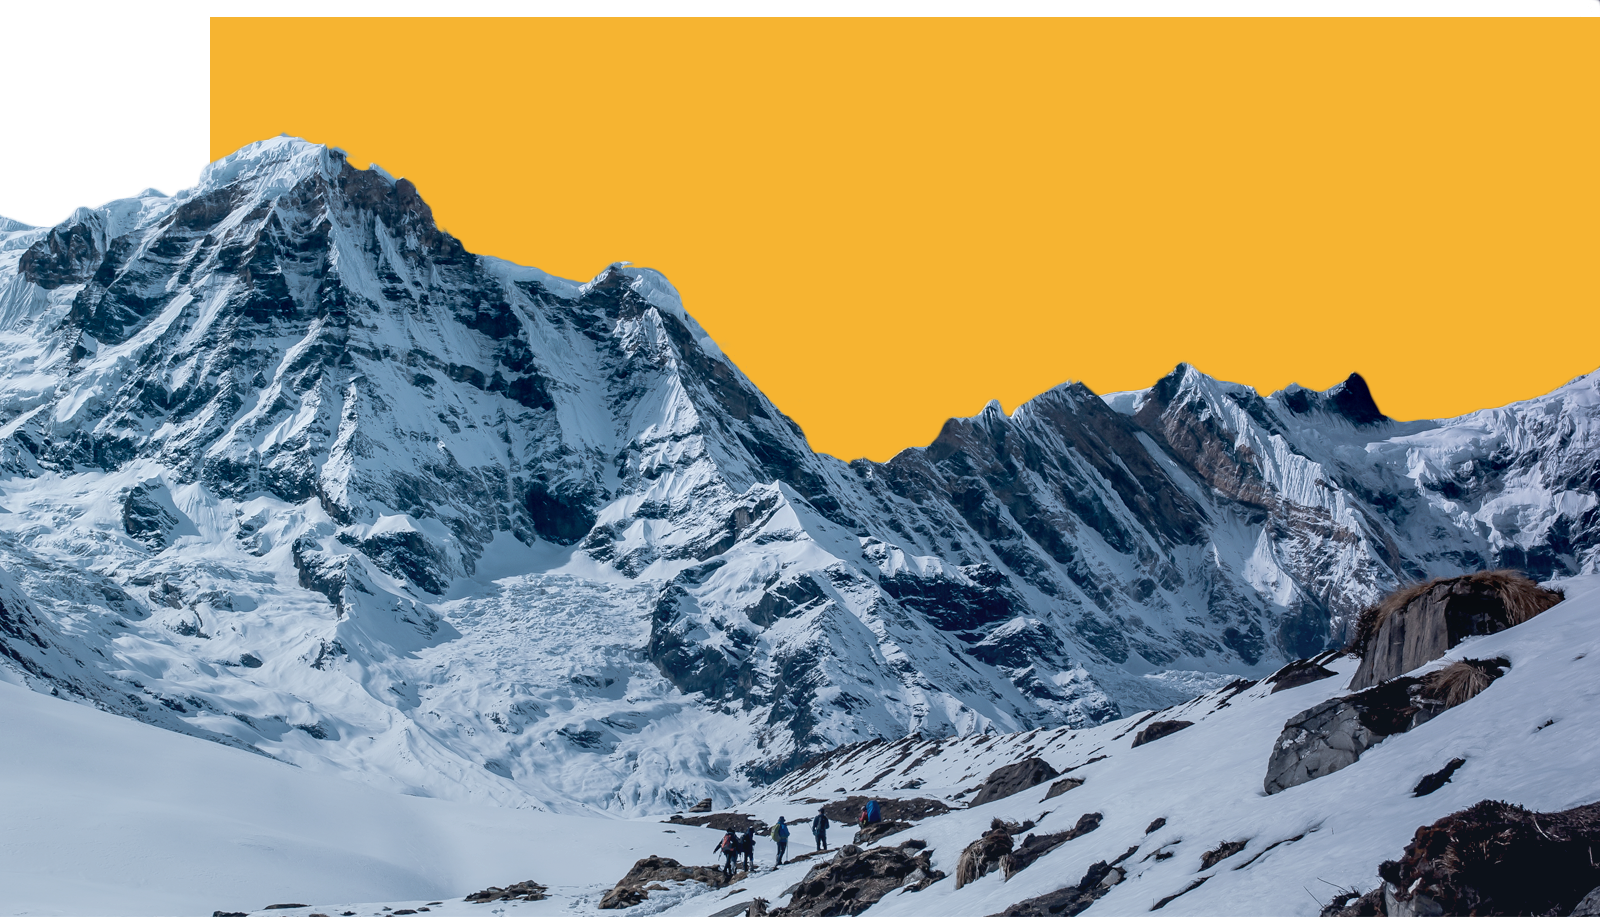
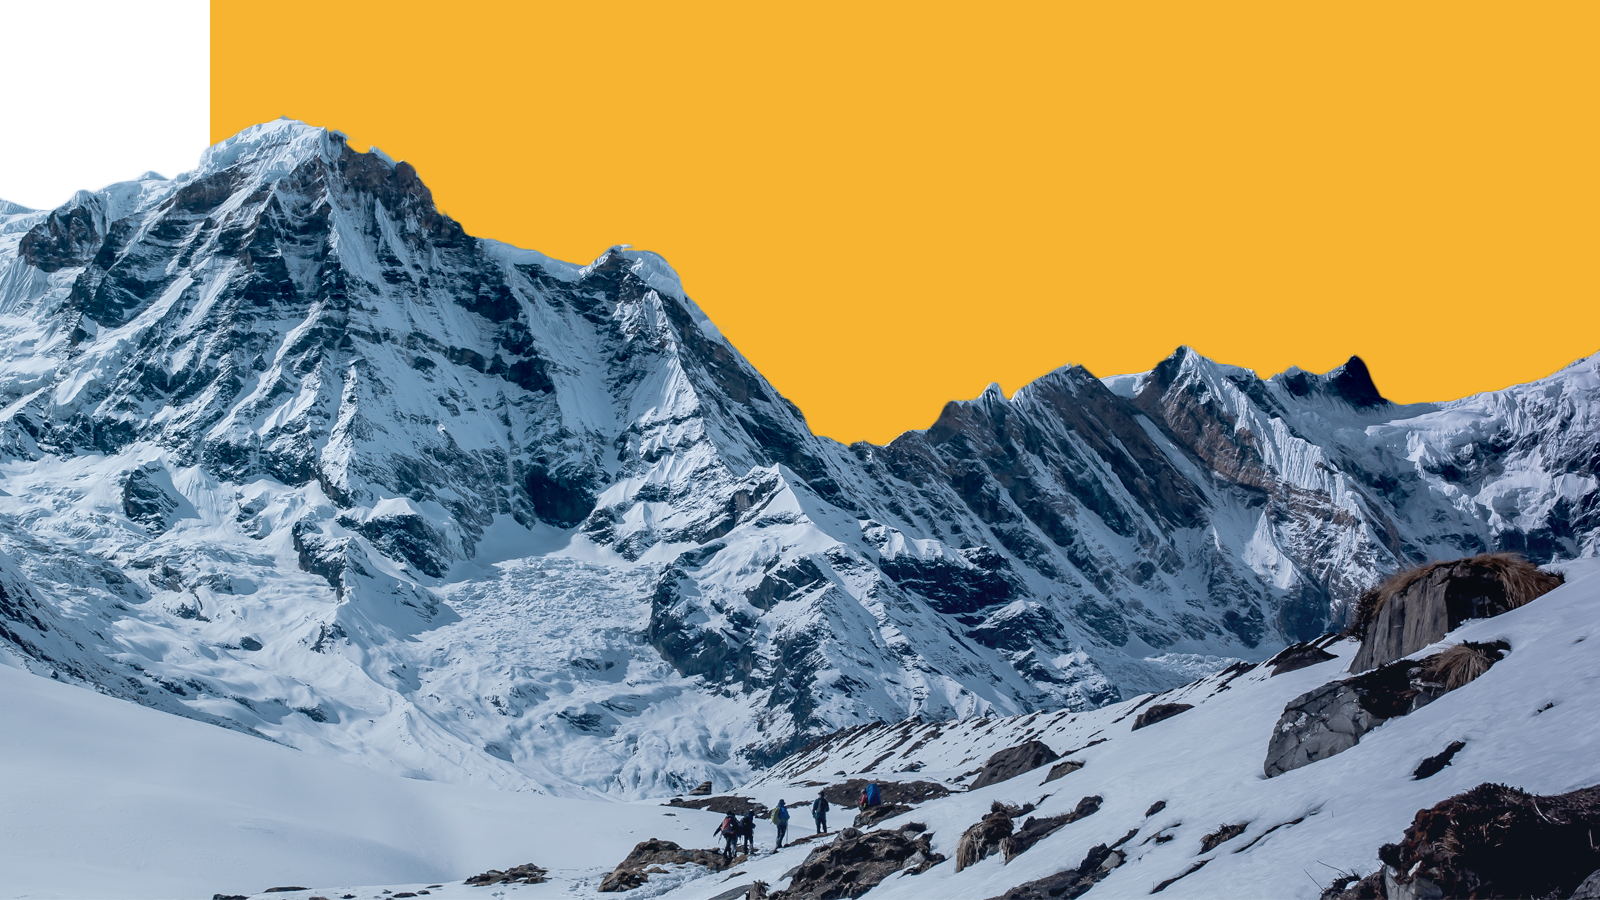
hate this mockup v2

diff --git a/css/style.css b/css/style.css
@@ -1,9 +1,9 @@
 body {
     background-color: #ECEDF1;
+    margin-left: 100px;
 }
 a {
     text-decoration: none;
-    color: white;
 }
 ul {
     list-style: none;
@@ -19,11 +19,13 @@ ul {
     justify-content: space-between;
     align-items: center;
     margin-left: 210px;
+    margin-bottom: 15px;
 }
 .row h2 {
     font-family: "Proxima Nova", sans-serif;
     font-size: 30px;
     color: #344D71;
+    margin-top: 43px;
 }
 .header__contacts {
     display: flex;
@@ -33,38 +35,47 @@ ul {
     font-family: "Proxima Nova Semibold",sans-serif;
     font-size: 25px;
     background-color: white;
-    height: 60px;
+    height: 50px;
 }
-.header__contacts>span {
+.header__contacts>div {
     background-color: #344D71;
-    height: 60px;
-    text-align: center;
+    text-align: left;
+    width: 25%;
     color:white;
+    padding: 11px 0;
+    padding-left: 30px;
 }
 .header__contacts>p {
     color: #A3B1B8;
+    font-family: "Proxima Nova",sans-serif;
+    font-size: 14px;
+    padding-right: 50px;
 }
 .header__contacts>i {
     color: white;
-    padding: 14px;
-    background-color: #DE9E20   ;
+    padding: 13px 15px;
+    background-color: #DE9E20;
+    text-align: center;
+}
+.header__links {
+    color: black;
 }
 .navigation {
     background-color: #F6B431;
     height: 70px;
-    margin-left: 210px;
     padding: 0;
+    margin: 0 0 0 210px;
 }
 .navigation__element {
     display: inline-block;
     font-family: "Proxima Nova Semibold", sans-serif;
     font-size: 16pt;
-
 }
 .main {
     margin-top: -10px;
 }
 .block_top {
+    margin-top: -50px;
     display: flex;
     background-color: gray;
     background-image: url("../img/Masthead.png");
@@ -72,48 +83,71 @@ ul {
     max-width: 1600px;
 }
 .enrol {
-
+    background-color: #83969F;
+    width: 780px;
+    font-size: 20px;
 }
 .contact_us {
+    margin-left: 990px;
+    margin-top: 585px;
+    position: absolute;
     display: list-item;
+    background-color: #344D71;
+    height: 355px;
+    width: 340px;
+    padding: 30px;
+}
+.contact_us p {
+    font-family: "Proxima Nova Semibold",sans-serif;
+    font-size: 14px;
 }
 
 @font-face {
     font-family: FontAwesome;
     src: local("FontAwesome"),
-    url(../font/FontAwesome.otf);
+    url(../fonts/FontAwesome.otf);
 }
 @font-face {
     font-family: Proxima Nova Bold;
     src: local("Proxima Nova Bold"),
-    url(../font/ProximaNovaBold.otf);
+    url(../fonts/ProximaNovaBold.otf);
 }
 @font-face {
     font-family: Proxima Nova Regular;
     src: local("Proxima Nova Regular"),
-    url(../font/ProximaNovaRegular.otf);
+    url(../fonts/ProximaNovaRegular.otf);
 }
 @font-face {
     font-family: Proxima Nova Regular Italic;
     src: local("Proxima Nova Regular Italic"),
-    url(../font/ProximaNovaRegularItalic.otf);
+    url(../fonts/ProximaNovaRegularItalic.otf);
 }
 @font-face {
     font-family: Proxima Nova Semibold;
     src: local("Proxima Nova Semibold"),
-    url(../font/ProximaNovaSemibold.otf);
+    url(../fonts/ProximaNovaSemibold.otf);
 }
 @font-face {
     font-family: Raleway-Light;
     src: local("Raleway-Light.ttf"),
-    url(../font/Raleway-Light.ttf);
+    url(../fonts/Raleway-Light.ttf);
 }
 @font-face {
     font-family: Raleway-Medium;
     src: local("Raleway-Medium"),
-    url(../font/Raleway-Medium.ttf);
+    url(../fonts/Raleway-Medium.ttf);
 }
-
-
-
-
+@font-face {
+    font-family: Open Sans;
+    src: local("Open Sans"),
+    url(../fonts/opensans.ttf);
+}
+@font-face {
+    font-family: Ubuntu Medium;
+    src: local("Ubuntu Medium"),
+    url(../fonts/ubuntumedium.ttf);
+}
+@font-face {
+    font-family: Glyphicons;
+    url(../font/glyphicons-halflings-regular.ttf);
+}

diff --git a/index.html b/index.html
@@ -6,21 +6,22 @@
     <link rel="stylesheet" href="css/normalize.css">
     <link rel="stylesheet" href="css/style.css">
     <link rel="stylesheet" href="css/font-awesome.css">
+    <link rel="stylesheet" href="css/icomoon.css">
 </head>
 <body>
     <header class="header_first">
         <div class="row">
             <h2>PROFILE</h2>
             <div class="header__links">
-                <a href="#">linkedin</a>
-                <a href="#">facebook</a>
-                <a href="#">twitter</a>
+                <a href="#"><i class="icon-linkedin"></i></a>
+                <a href="#"><i class="icon-facebook"></i></a>
+                <a href="#"><i class="icon-twitter"></i></a>
             </div>
         </div>
         <div class="header__contacts">
             <p>admin@youremail.com.au</p>
             <i class="fa fa-phone" aria-hidden="true"></i>
-            <span>1300 555 555</span>
+            <div class="phone">1300 555 555</div>
         </div>
         <ul class="navigation">
             <li class="navigation__element"><a href="#"><i class="fa fa-home" aria-hidden="true"></i></a></li>
@@ -38,18 +39,18 @@
                 <h3>Reach your limits</h3>
                 <p>Lorem ipsum dolor sit amet, consectetur<br>adipiscing elit, sed do eiusmod tempor</p>
             </div>
-            <div class="enrol">
-                <h3>Choose from a range of great products and recognised certificate and diploma courses.  <a href="#">Enrol Online Now</a></h3>
-            </div>
             <div class="contact_us">
                 <h3>Contact us Today</h3>
-                <p></p>
+                <p>Lorem ipsum dolor sit amet, consectetur<br>adipisicing elit, sed do eiusmod tempor </p>
                 <p>Your name</p>
                 <input class="contact__placeholder" type="text" placeholder="">
                 <p>Contact Number</p>
                 <input class="contact__placeholder" type="text" placeholder=""><br>
-                <button class="subscribe__button" id="subscribe__button">SUBSCRIBE</button>
+                <button class="subscribe__button" id="subscribe__button">CALL ME BACK ></button>
             </div>
+        </div>
+        <div class="enrol">
+            <h3>Choose from a range of great products and recognised certificate and diploma courses.  <a href="#">Enrol Online Now</a></h3>
         </div>
         <div class="">
             <div class="base>">

diff --git a/css/normalize.css b/css/normalize.css
@@ -83,8 +83,8 @@ hr {
 }
 
 /**
- * 1. Correct the inheritance and scaling of font size in all browsers.
- * 2. Correct the odd `em` font sizing in all browsers.
+ * 1. Correct the inheritance and scaling of fonts size in all browsers.
+ * 2. Correct the odd `em` fonts sizing in all browsers.
  */
 
 pre {
@@ -135,8 +135,8 @@ strong {
 }
 
 /**
- * 1. Correct the inheritance and scaling of font size in all browsers.
- * 2. Correct the odd `em` font sizing in all browsers.
+ * 1. Correct the inheritance and scaling of fonts size in all browsers.
+ * 2. Correct the odd `em` fonts sizing in all browsers.
  */
 
 code,
